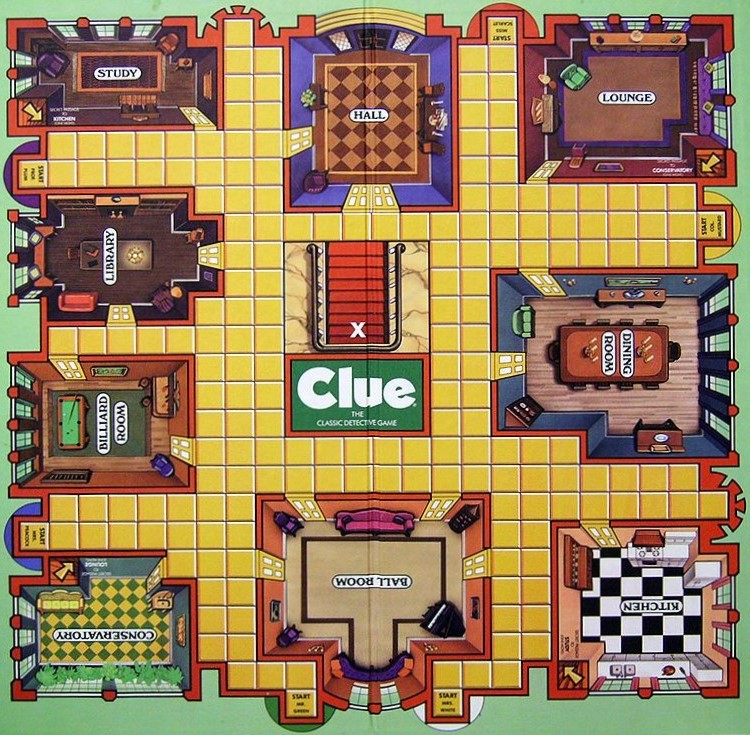
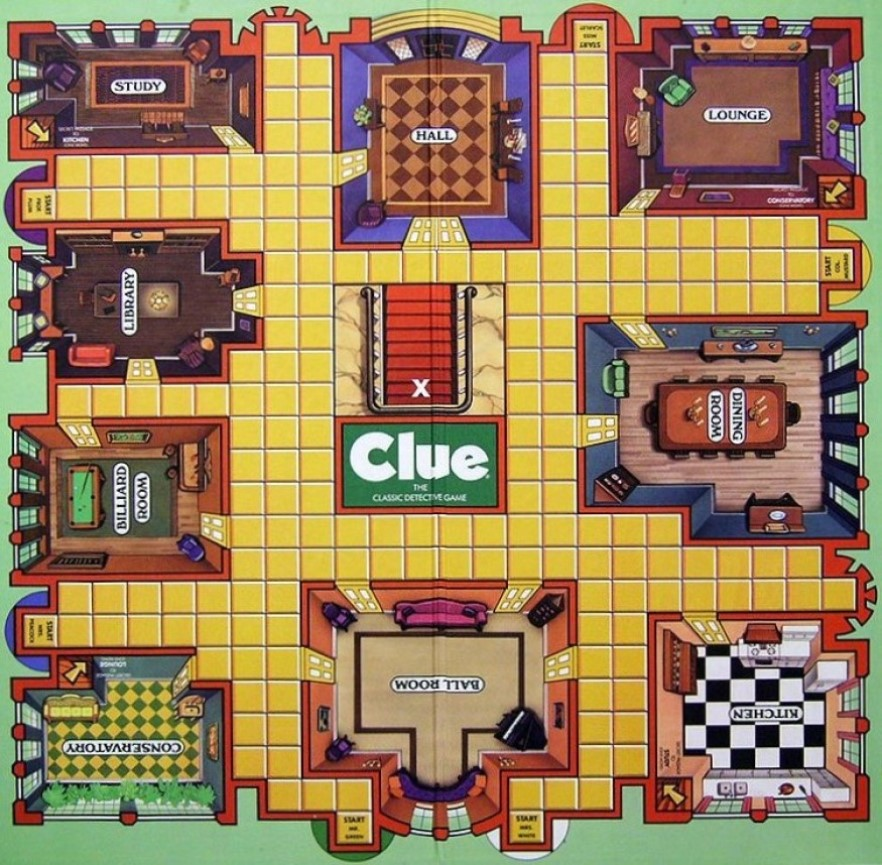
expand game board image

diff --git a/game_board.py b/game_board.py
@@ -16,11 +16,10 @@ black = (0,0,0)
 white = (255,255,255)
 red = (255,0,0)
 
-log_book_width = LogBookPanel.PANEL_WIDTH
-board_width = 800
+board_width = 882
 
-display_width = log_book_width + board_width
-display_height = 1000
+display_width = LogBookPanel.PANEL_WIDTH + board_width
+display_height = 865
 
 def run(director: Director, run_game_lock: Lock, end_game_lock: Lock, human: HumanPlayer, turn_lock: Lock):
     pygame.init()   
@@ -36,11 +35,12 @@ def run(director: Director, run_game_lock: Lock, end_game_lock: Lock, human: Hum
     # load images
     board_img = pygame.image.load('assets/board.jpg')
 
-    start_button = pygame_gui.elements.UIButton(relative_rect=pygame.Rect((350, 275), (100, 50)),
+    start_button_rect = pygame.Rect(((display_width / 2) - 50, (display_height / 2) - 25), (100, 50))
+    start_button = pygame_gui.elements.UIButton(relative_rect=start_button_rect,
                                              text='Start Game',
                                              manager=manager)
 
-    board_surface = pygame.Surface((board_width, 800))
+    board_surface = pygame.Surface((board_width, display_height))
     
     player_pieces: List[PlayerPiece] = list(map(lambda p: PlayerPiece(p, board_surface), director.players))
 
@@ -54,43 +54,66 @@ def run(director: Director, run_game_lock: Lock, end_game_lock: Lock, human: Hum
 
     human.on_turn = lambda turn: on_player_turn(manager, turn, turn_lock, start_turn_menu, match_pick_panel, on_end_turn)
 
-    while not crashed and end_game_lock.locked() is False:
+    started = False
+    while end_game_lock.locked() is False and not started:
         time_delta = clock.tick(60) / 1000.0
 
         for event in pygame.event.get():
             if event.type == pygame.QUIT:
-                crashed = True
                 quit_game(end_game_lock, run_game_lock, turn_lock)
+                break
             
             elif event.type == pygame.USEREVENT:
                  if event.user_type == pygame_gui.UI_BUTTON_PRESSED:
                      if event.ui_element == start_button:
-                         start_button.hide()                         
+                         start_button.kill()
                          run_game_lock.release()
-            
-            start_turn_menu.process_events(event)
-            log_book_ui.process_events(event)
+                         started = True
+
             manager.process_events(event)
-            player_roll.process_events(event)
-            match_pick_panel.process_events(event)
-            guess_panel.process_events(event)
     
         game_display.fill(white)
                 
-        board_surface.blit(board_img, (0, 0))        
-
-        if director.game_status == GameStatus.RUNNING:
-            for player in player_pieces:
-                player.draw()
-
-        player_roll.draw()
-
-        game_display.blit(board_surface, (log_book_width, 0))        
-
         manager.update(time_delta)
         manager.draw_ui(game_display)
 
-        pygame.display.update()                
+        pygame.display.update()
+    
+    if started:
+        # start the game
+        log_book_ui.show()
+
+        while end_game_lock.locked() is False:
+            time_delta = clock.tick(60) / 1000.0
+
+            for event in pygame.event.get():
+                if event.type == pygame.QUIT:
+                    quit_game(end_game_lock, run_game_lock, turn_lock)
+                    break
+            
+                start_turn_menu.process_events(event)
+                log_book_ui.process_events(event)            
+                player_roll.process_events(event)
+                match_pick_panel.process_events(event)
+                guess_panel.process_events(event)
+                manager.process_events(event)
+    
+            game_display.fill(white)
+                
+            board_surface.blit(board_img, (0, 0))        
+
+            if director.game_status == GameStatus.RUNNING:
+                for player in player_pieces:
+                    player.draw()
+
+            player_roll.draw()
+
+            game_display.blit(board_surface, (LogBookPanel.PANEL_WIDTH, 0))        
+
+            manager.update(time_delta)
+            manager.draw_ui(game_display)
+
+            pygame.display.update()                
 
     pygame.quit()
 
@@ -184,6 +207,7 @@ if __name__ == "__main__":
 
     run_game_lock = Lock()
     end_game_lock = Lock()
-    director = Director(end_game_lock, players)	
+    turn_lock = Lock()
+    director = Director(end_game_lock, players, turn_lock)	
     
-    run(director, run_game_lock, end_game_lock, human)
+    run(director, run_game_lock, end_game_lock, human, turn_lock)

diff --git a/game_board_util.py b/game_board_util.py
@@ -32,10 +32,16 @@ class PlayerPiece:
         pygame.draw.circle(self.surface, player_colors[self.player.character], pos, piece_radius)
 
 
-top_pad = 17.5
+top_pad = 25
 left_pad = 20
 
+board_width = 882 - 55
+board_height = 865 - 50
+
+scale_width = board_width / 23.85
+scale_height = board_height / 24.9
+
 def scale_position(pos: Tuple[int, int]) -> Tuple[int, int]:
-    row = int(round(top_pad + (pos[0] * 28) + piece_radius))
-    col = int(round(left_pad + (pos[1] * 29.583333) + piece_radius))
+    row = top_pad + int(round((pos[0] + 0.5) * scale_height)) 
+    col = left_pad + int(round((pos[1] + 0.5) * scale_width))
     return (col, row)

diff --git a/log_book_ui.py b/log_book_ui.py
@@ -31,7 +31,12 @@ class LogBookPanel:
 
         height = self._create_section("Chacater", Character, 20)
         height = self._create_section("Room", Room, height)
-        self._create_section("Weapon", Weapon, height)      
+        self._create_section("Weapon", Weapon, height)
+
+        self.panel.hide()
+
+    def show(self):
+        self.panel.show()
 
     def process_events(self, event):
         if event.type == pygame.MOUSEBUTTONUP:

diff --git a/panels.py b/panels.py
@@ -62,7 +62,7 @@ class StartTurnPanel:
         rect = pygame.Rect((50, y_offset + 25), (200, 50))
         self._accuse_button = UIButton(rect, 'Accuse', manager, container=self.panel)
 
-        self.hide()   
+        self.hide()
 
     def show(self):
         if self.player.room is None:
